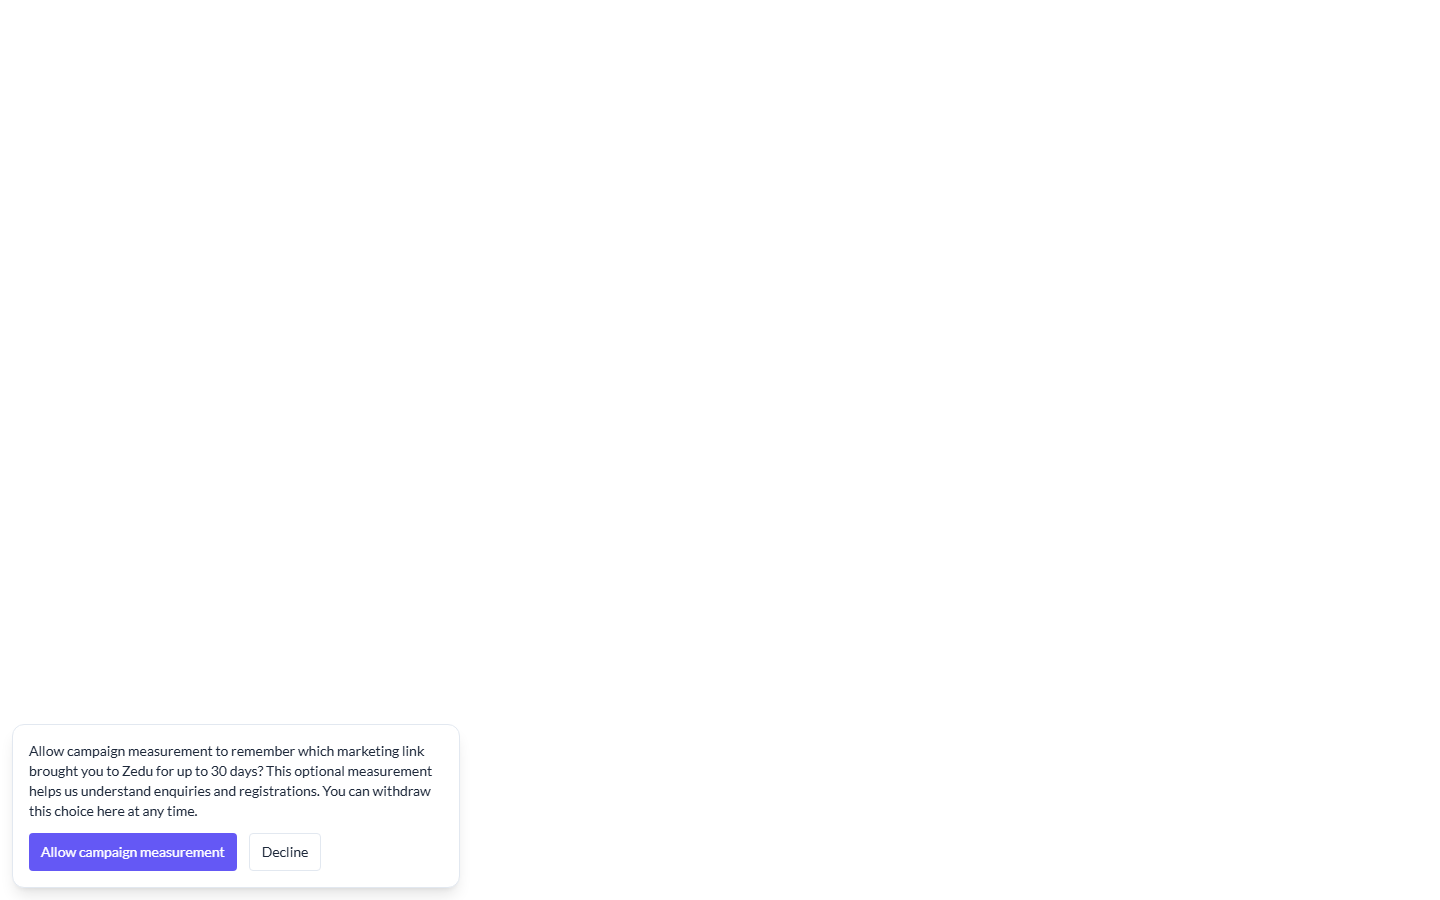
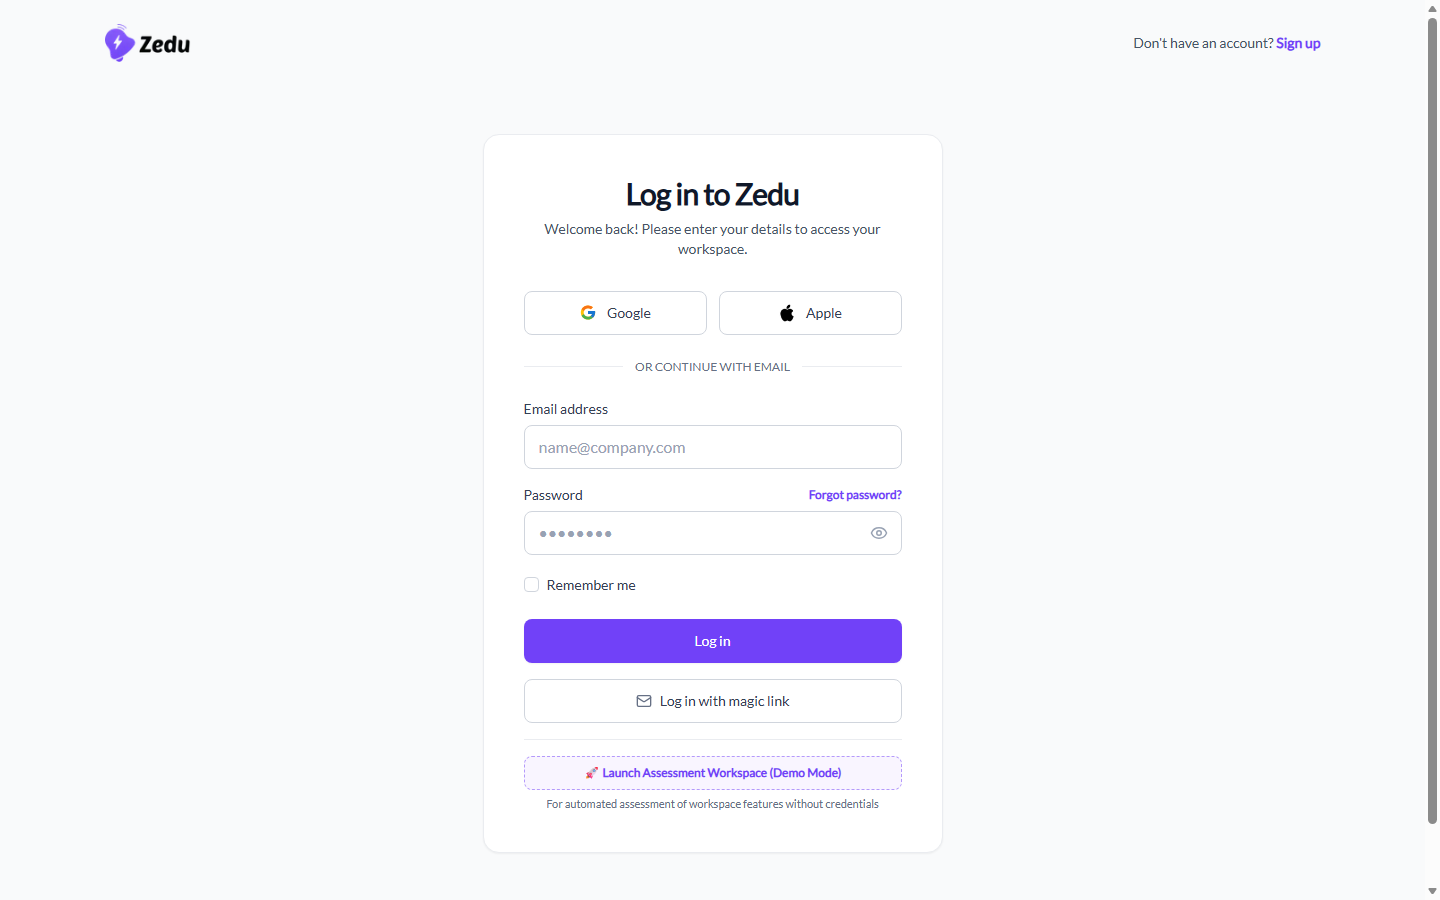
fix(auth): update verified screenshots and resolve repo prettier warnings

diff --git a/src/app/(client)/[org]/_components/message-box/use-attachments.ts b/src/app/(client)/[org]/_components/message-box/use-attachments.ts
@@ -74,15 +74,17 @@ export const useAttachments = () => {
 
   const add = useCallback(
     (files: File[], voice?: Attachment["voice"]) => {
-      const added = files.map((file): Attachment => ({
-        id: uuidv7(),
-        file,
-        type: file.type.split("/")[0],
-        preview: URL.createObjectURL(file),
-        status: "uploading",
-        uploaded: [],
-        voice,
-      }));
+      const added = files.map(
+        (file): Attachment => ({
+          id: uuidv7(),
+          file,
+          type: file.type.split("/")[0],
+          preview: URL.createObjectURL(file),
+          status: "uploading",
+          uploaded: [],
+          voice,
+        })
+      );
       setAttachments((prev) => [...prev, ...added]);
       added.forEach((attachment) => void upload(attachment));
     },

diff --git a/src/app/(client)/[org]/_components/user-management/type/index.ts b/src/app/(client)/[org]/_components/user-management/type/index.ts
@@ -13,7 +13,12 @@ export type MembersColumn = {
   };
   paymentMethod: {
     type:
-      "visa" | "mastercard" | "amex" | "paypal" | "bank_transfer" | "credit";
+      | "visa"
+      | "mastercard"
+      | "amex"
+      | "paypal"
+      | "bank_transfer"
+      | "credit";
     lastFour: string;
     processor: "stripe" | "paypal" | "direct";
   };
@@ -32,7 +37,12 @@ export type Member = {
   name: string;
   role: string;
   status:
-    "active" | "inactive" | "invited" | "pending" | "deactivated" | "accepted";
+    | "active"
+    | "inactive"
+    | "invited"
+    | "pending"
+    | "deactivated"
+    | "accepted";
   created_at: string;
   entity_type: "bot" | "user";
   is_deactivated?: boolean;

diff --git a/src/utils/document-files.ts b/src/utils/document-files.ts
@@ -5,7 +5,11 @@ import {
 } from "~/lib/env-urls";
 
 export type DocumentCategory =
-  "pdf" | "document" | "spreadsheet" | "presentation" | "file";
+  | "pdf"
+  | "document"
+  | "spreadsheet"
+  | "presentation"
+  | "file";
 
 export const CHAT_FILE_ACCEPT =
   "image/*,video/*,audio/*,application/pdf,.pdf,.doc,.docx,.xls,.xlsx,.ppt,.pptx,.csv,.txt,application/msword,application/vnd.openxmlformats-officedocument.wordprocessingml.document,application/vnd.ms-excel,application/vnd.openxmlformats-officedocument.spreadsheetml.sheet,application/vnd.ms-powerpoint,application/vnd.openxmlformats-officedocument.presentationml.presentation";

diff --git a/src/app/(auth)/layout.tsx b/src/app/(auth)/layout.tsx
@@ -111,7 +111,13 @@ export default function RootLayout({
   if (loading) return;
 
   return (
-    <GoogleOAuthProvider clientId={process.env.NEXT_PUBLIC_GOOGLE_CLIENT_ID!}>
+    <GoogleOAuthProvider
+      clientId={
+        process.env.NEXT_PUBLIC_GOOGLE_CLIENT_ID ||
+        "placeholder-google-client-id"
+      }
+    >
+      <style>{`[aria-label="Campaign measurement preferences"], [data-nextjs-dev-tools-button], nextjs-portal { display: none !important; }`}</style>
       <DataProvider>{children}</DataProvider>
     </GoogleOAuthProvider>
   );

diff --git a/src/app/(homepage)/_lib/pricingComparisonData.ts b/src/app/(homepage)/_lib/pricingComparisonData.ts
@@ -1,5 +1,9 @@
 export type PricingComparisonCellValue =
-  string | number | boolean | null | undefined;
+  | string
+  | number
+  | boolean
+  | null
+  | undefined;
 
 export type PricingComparisonPlan = {
   key: string;
@@ -7,7 +11,11 @@ export type PricingComparisonPlan = {
 };
 
 export type PricingComparisonSectionIcon =
-  "community" | "communication" | "learning" | "automation" | "security";
+  | "community"
+  | "communication"
+  | "learning"
+  | "automation"
+  | "security";
 
 export type PricingComparisonRow = {
   key: string;

diff --git a/src/app/(homepage)/_components/home/CelebrationThemeContext.tsx b/src/app/(homepage)/_components/home/CelebrationThemeContext.tsx
@@ -50,7 +50,10 @@ export const CelebrationThemeProvider: React.FC<{
 
     // 2. Check localStorage override
     const storedOverride = localStorage.getItem(STORAGE_OVERRIDE_KEY) as
-      CelebrationKey | "none" | "auto" | null;
+      | CelebrationKey
+      | "none"
+      | "auto"
+      | null;
 
     const initialKey: CelebrationKey | "none" | "auto" =
       (queryCelebration as CelebrationKey | "none" | "auto" | null) ||

diff --git a/src/components/layout/sidebar/files-nav.tsx b/src/components/layout/sidebar/files-nav.tsx
@@ -9,7 +9,10 @@ import Link from "next/link";
 import { useParams, usePathname } from "next/navigation";
 
 export type FileView =
-  "All files" | "My files" | "Shared with me" | "Deleted files";
+  | "All files"
+  | "My files"
+  | "Shared with me"
+  | "Deleted files";
 
 const sidebarBtns: { icon: typeof Files; label: FileView; path: string }[] = [
   { icon: Files, label: "All files", path: "/files" },

diff --git a/src/components/raise-hand/raise-hand-animation.tsx b/src/components/raise-hand/raise-hand-animation.tsx
@@ -7,7 +7,11 @@ import { cn } from "~/lib/utils";
 interface RaiseHandAnimationProps {
   trigger: boolean;
   position?:
-    "top-right" | "top-left" | "bottom-right" | "bottom-left" | "center";
+    | "top-right"
+    | "top-left"
+    | "bottom-right"
+    | "bottom-left"
+    | "center";
   useRelativePosition?: boolean; // When true, doesn't apply fixed positioning (for use in absolute containers)
 }
 

diff --git a/src/app/(client)/[org]/_components/channel-details-dialog/files-tab-container.tsx b/src/app/(client)/[org]/_components/channel-details-dialog/files-tab-container.tsx
@@ -36,7 +36,12 @@ import ChannelFileMediaPreview from "./channel-file-media-preview";
 import { extractLinks } from "../ChannelMessage/preview-links";
 
 export type ChannelFileFilter =
-  "all" | "images" | "videos" | "audio" | "documents" | "links";
+  | "all"
+  | "images"
+  | "videos"
+  | "audio"
+  | "documents"
+  | "links";
 
 type ChannelFileEntry = Media & {
   thread_id?: string;

diff --git a/src/app/(homepage)/alternatives/_lib/competitorData.ts b/src/app/(homepage)/alternatives/_lib/competitorData.ts
@@ -3,7 +3,11 @@ export type CompetitorKey = "slack" | "discord";
 export type FeatureComparisonItem = {
   feature: string;
   category:
-    "collaboration" | "organization" | "pricing" | "security" | "communication";
+    | "collaboration"
+    | "organization"
+    | "pricing"
+    | "security"
+    | "communication";
   tooltip: string;
   zedu: {
     status: "yes" | "no" | "partial";

diff --git a/src/utils/file-filters.ts b/src/utils/file-filters.ts
@@ -1,7 +1,10 @@
 import { FileDetails } from "~/app/(client)/[org]/_components/file-management/FileInfo";
 
 export type FileListViewMode =
-  "All files" | "My Files" | "Shared with me" | "Deleted Files";
+  | "All files"
+  | "My Files"
+  | "Shared with me"
+  | "Deleted Files";
 
 export const FILE_CATEGORY_UI_TO_API: Record<string, string> = {
   document: "documents",

diff --git a/src/app/(client)/[org]/settings/organisation/billing/type/index.ts b/src/app/(client)/[org]/settings/organisation/billing/type/index.ts
@@ -94,7 +94,12 @@ export type TelexTransaction = {
   };
   paymentMethod: {
     type:
-      "visa" | "mastercard" | "amex" | "paypal" | "bank_transfer" | "credit";
+      | "visa"
+      | "mastercard"
+      | "amex"
+      | "paypal"
+      | "bank_transfer"
+      | "credit";
     lastFour: string;
     processor: "stripe" | "paypal" | "direct";
   };
